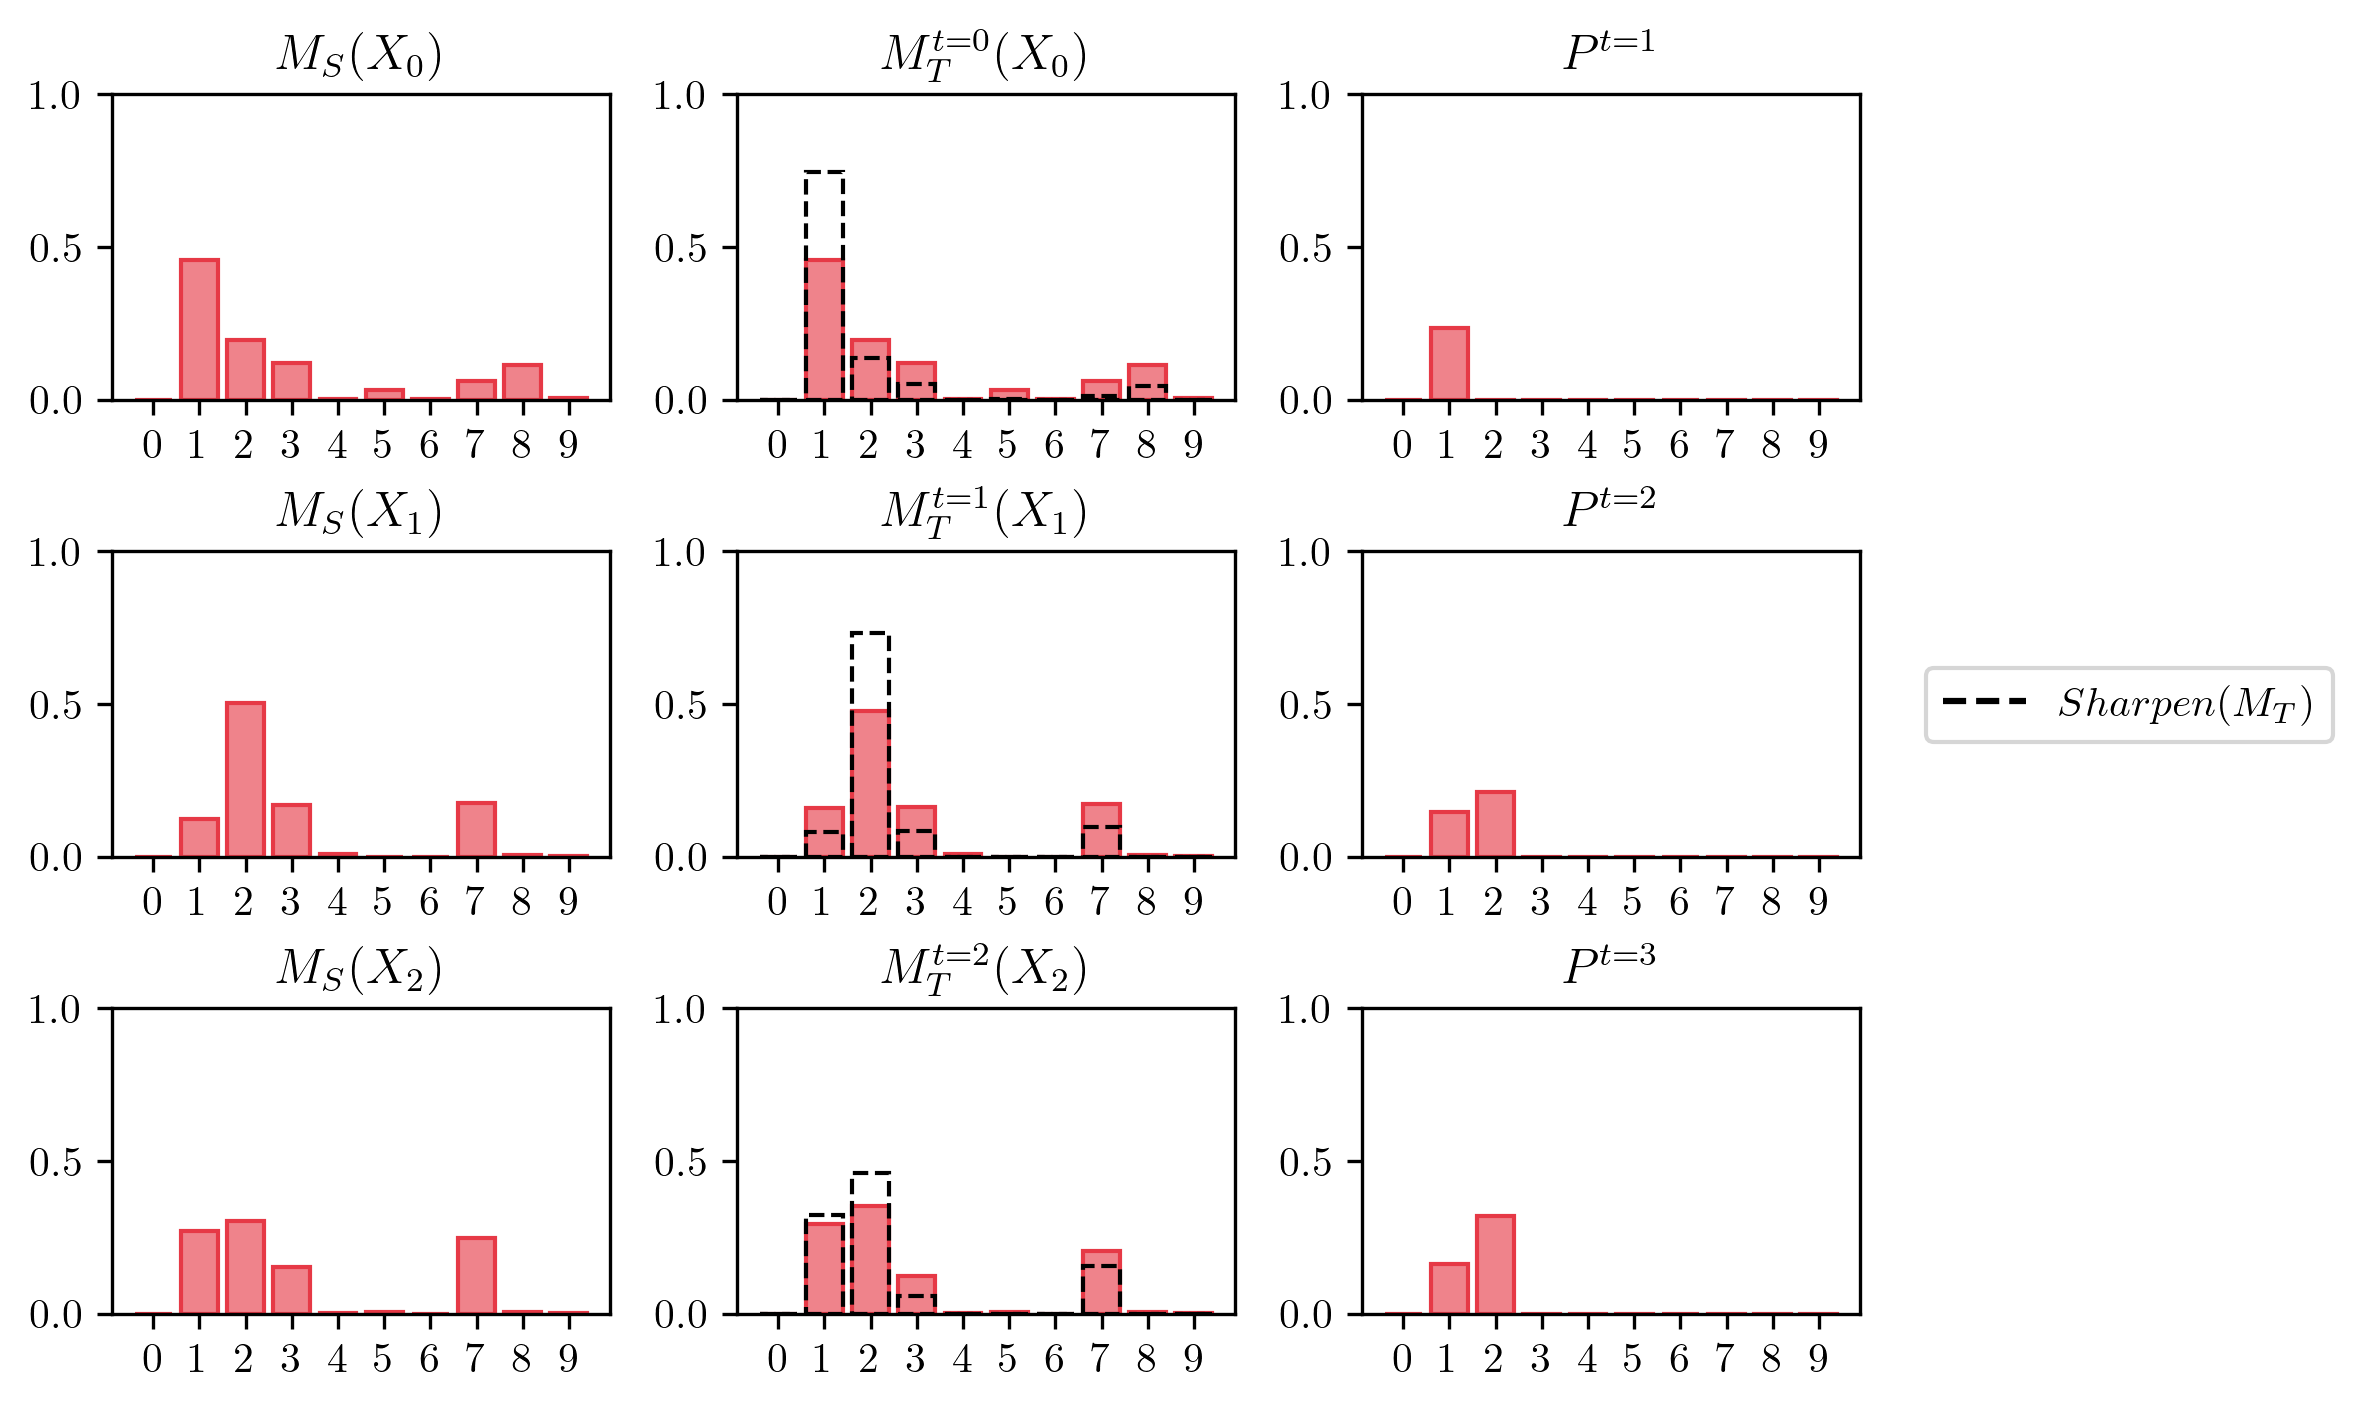
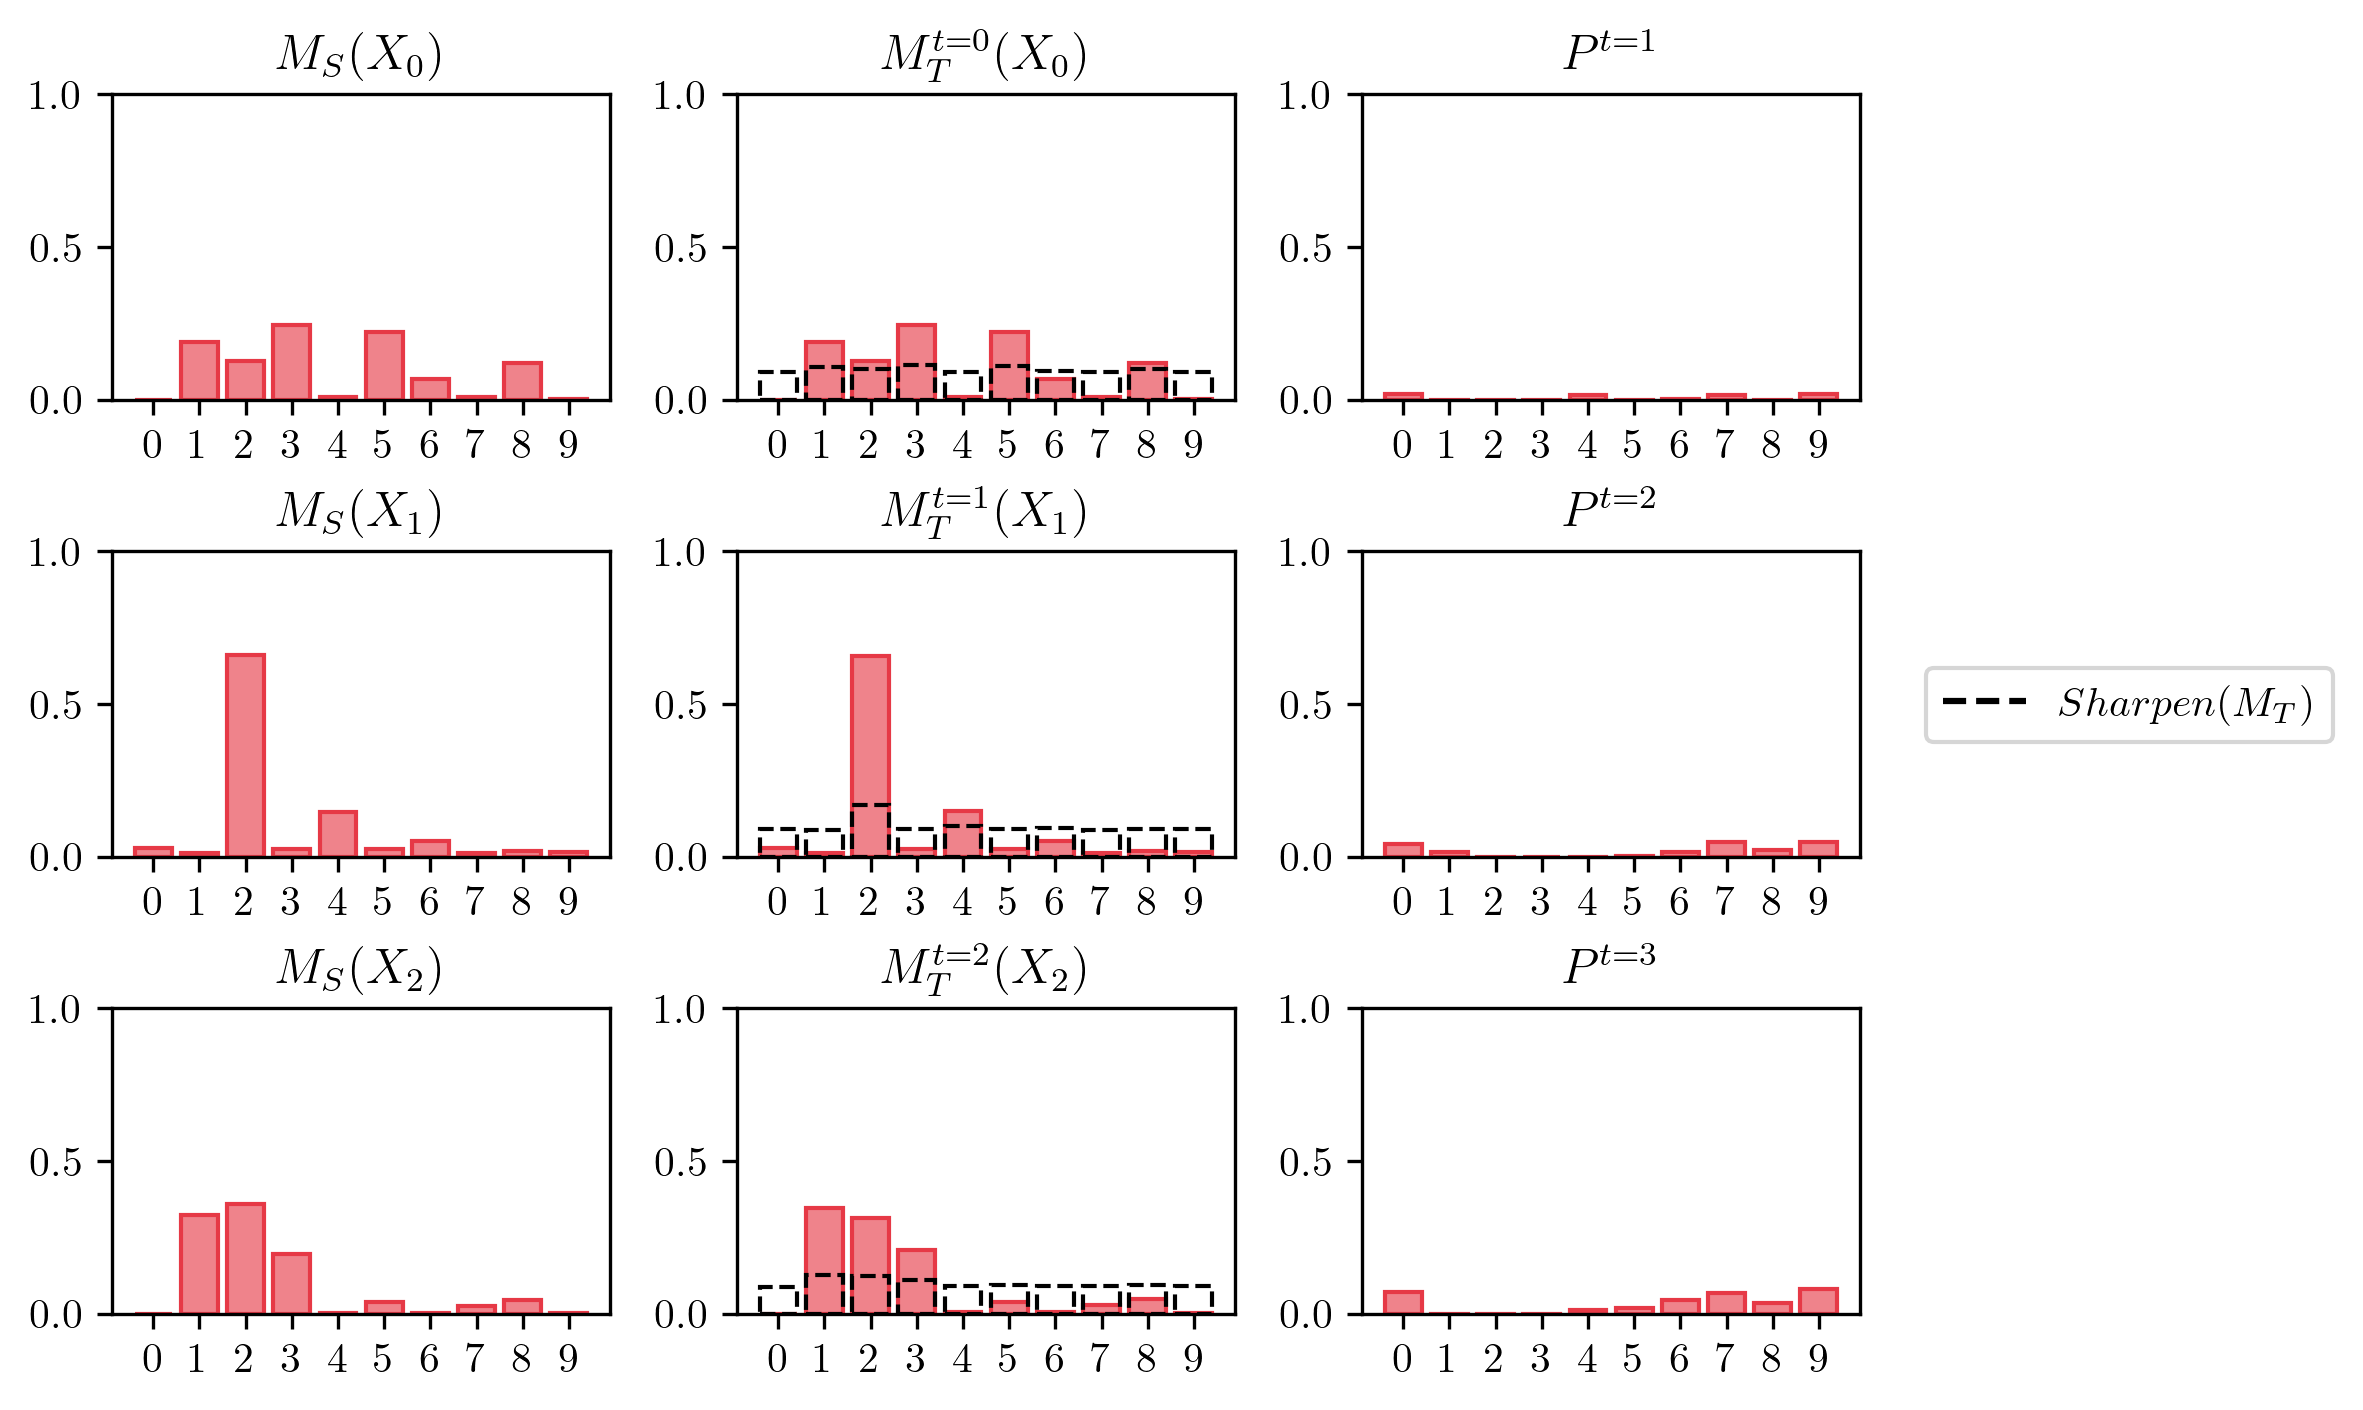
update

diff --git a/overfit/trainers/overfit.py b/overfit/trainers/overfit.py
@@ -204,7 +204,8 @@ class OverfitTrainer:
         y_tgt = self.model(x)
         p_y_src = F.softmax(y_src, dim=1)
         p_y_tgt = F.softmax(y_tgt, dim=1)
-        y_pseudo = sharpen(p_y_tgt, 1 - self.confidence, dim=1)
+        # y_pseudo = sharpen(p_y_tgt, 1 - self.confidence, dim=1)
+        y_pseudo = F.softmax(p_y_tgt, dim=1)
         pseudo_loss = F.cross_entropy(y_tgt, y_pseudo)
 
         H_src = entropy(logits=y_src)[0].item()
